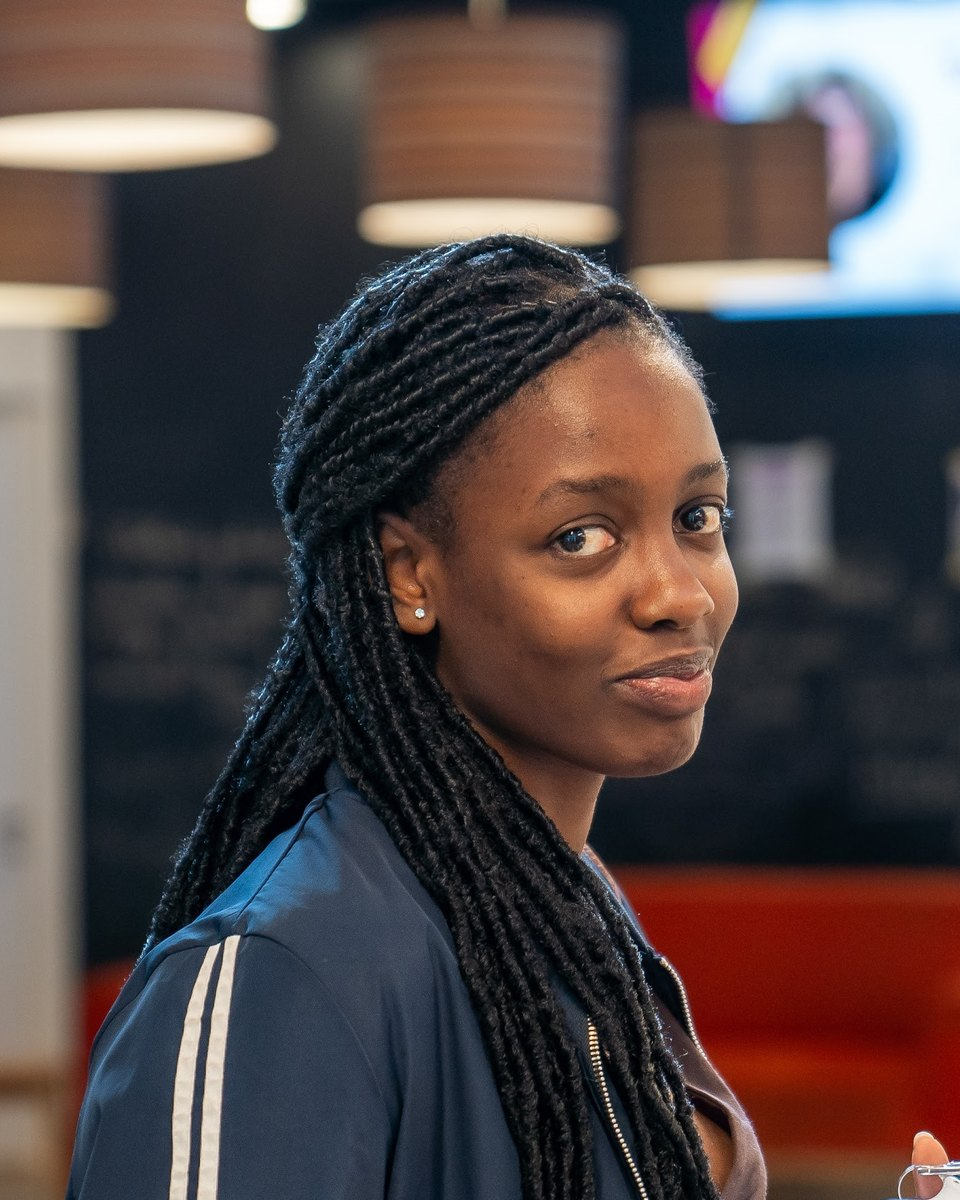
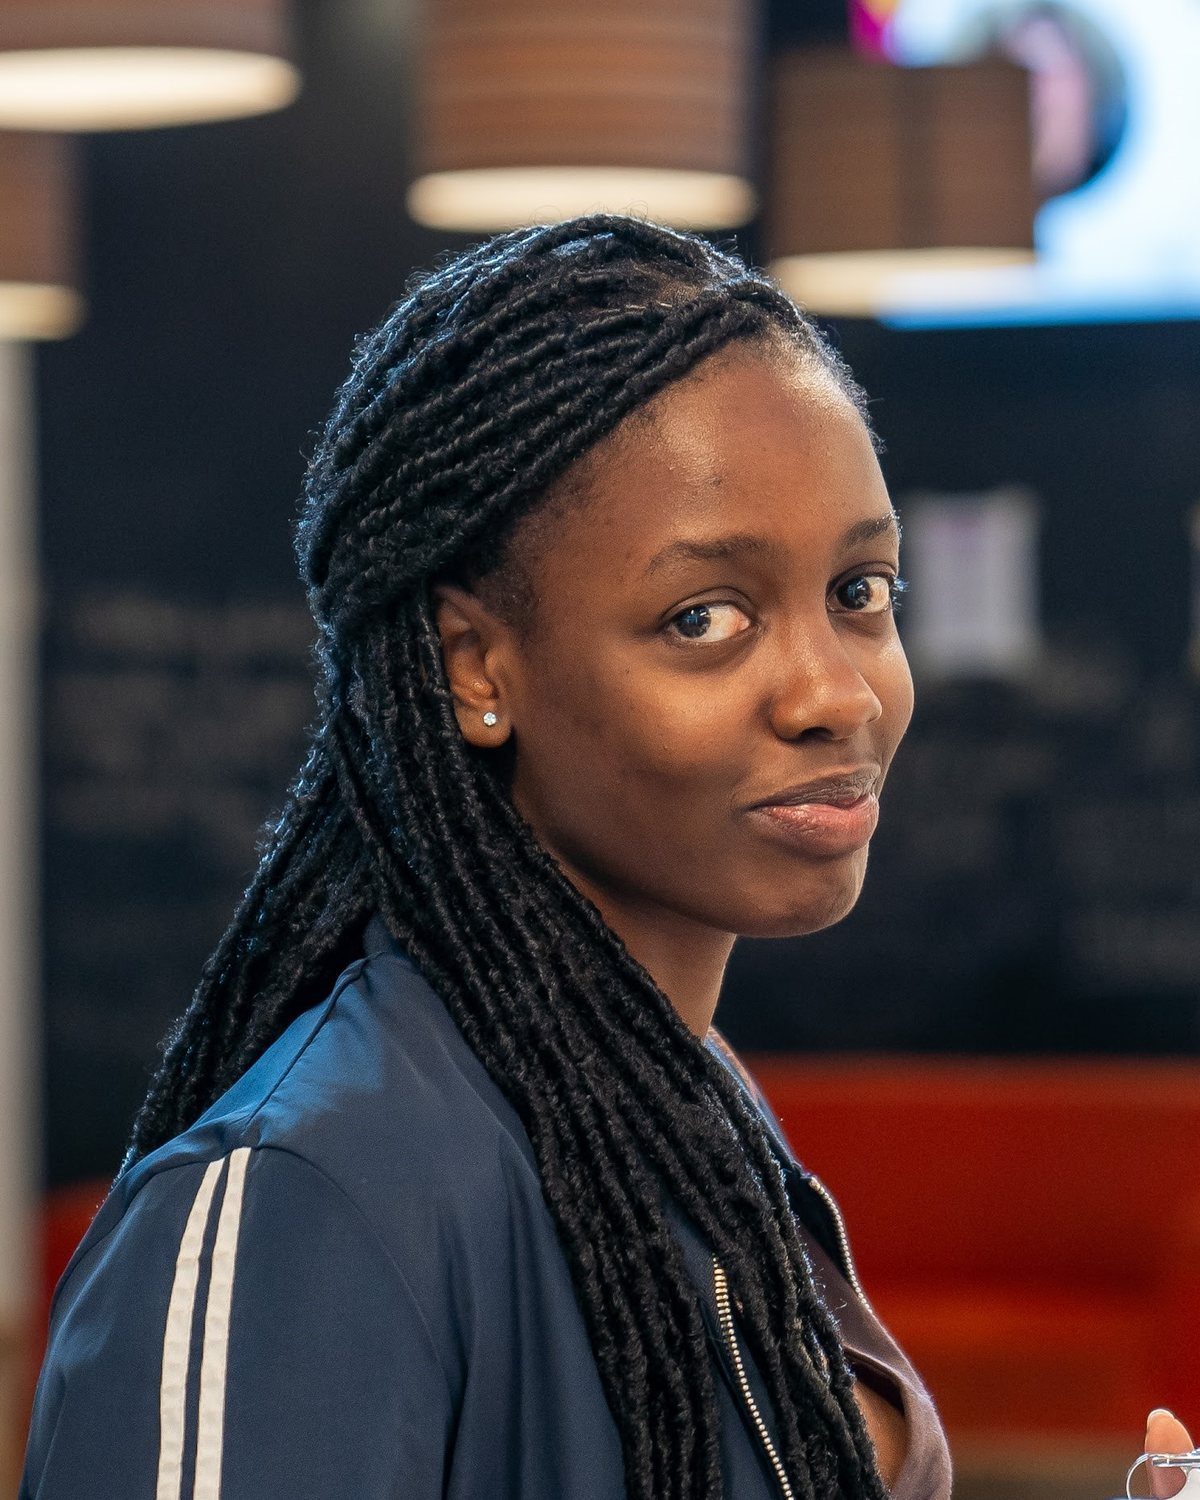
Redesign the hero as a portrait cover
The portrait moves from About into the introduction, joined to a violet cover
panel that carries the name, title, headline and calls to action. Evidence
becomes a full-width strip, laid out two by two on small screens.

diff --git a/components/home/hero.tsx b/components/home/hero.tsx
@@ -1,29 +1,65 @@
+import Image from "next/image";
+import portrait from "@/assets/jamillah.jpg";
 import { profile, proof } from "@/content/profile";
 import { ArrowDown, ArrowRight, ArrowUpRight } from "@/components/icons";
 
+const cellLayout = [
+  "border-b border-r pr-4 sm:pr-6 lg:border-b-0",
+  "border-b pl-4 sm:pl-6 lg:border-b-0 lg:border-r lg:px-6",
+  "border-r pr-4 sm:pr-6 lg:px-6",
+  "pl-4 sm:pl-6",
+];
+
 export function Hero() {
+  const [role, focus] = profile.title.split(" | ");
+
   return (
-    <section id="home" aria-labelledby="home-title" className="shell pb-20 pt-10 sm:pt-16 lg:pb-28 lg:pt-20">
-      <p className="eyebrow flex items-center gap-3">
-        <span aria-hidden="true" className="inline-block size-1.5 rounded-full bg-signal" />
-        {profile.title}
-      </p>
+    <section id="home" aria-labelledby="home-title" className="shell pb-6 pt-4 sm:pb-16 sm:pt-6 lg:pb-20">
+      <div className="grid overflow-hidden rounded-[4px] md:min-h-[min(82vh,48rem)] md:grid-cols-12">
+        <figure className="relative aspect-square md:order-2 md:col-span-5 md:aspect-auto">
+          <Image
+            src={portrait}
+            alt="Portrait of Jamillah Ssozi"
+            priority
+            placeholder="blur"
+            fill
+            sizes="(min-width: 768px) 42vw, 100vw"
+            className="object-cover object-[50%_28%]"
+          />
+          <figcaption className="absolute bottom-4 left-4 rounded-full bg-paper/90 px-3 py-1.5 font-mono text-[0.6875rem] text-ink backdrop-blur-sm">
+            {profile.location}
+          </figcaption>
+        </figure>
 
-      <h1
-        id="home-title"
-        className="mt-8 font-serif text-display tracking-[-0.02em] text-balance sm:mt-10"
-      >
-        {profile.headline.lead} <br className="hidden md:block" />
-        <em className="text-accent-display">{profile.headline.accent}</em>
-      </h1>
+        <div className="night flex flex-col bg-paper px-6 pb-8 pt-7 sm:px-10 sm:pb-10 sm:pt-9 md:order-1 md:col-span-7 lg:px-14 lg:pb-14 lg:pt-12">
+          <div>
+            <p className="font-serif text-3xl leading-none tracking-tight text-ink sm:text-4xl">{profile.name}</p>
+            <p className="eyebrow mt-3 flex items-start gap-3">
+              <span aria-hidden="true" className="mt-[0.4em] inline-block size-1.5 shrink-0 rounded-full bg-accent" />
+              <span>
+                <span className="block lg:inline">{role}</span>
+                <span aria-hidden="true" className="hidden lg:inline"> | </span>
+                <span className="sr-only lg:hidden">, </span>
+                <span className="block lg:inline">{focus}</span>
+              </span>
+            </p>
+          </div>
 
-      <div className="mt-12 grid gap-14 lg:mt-20 lg:grid-cols-12 lg:gap-12">
-        <div className="lg:col-span-5">
-          <p className="max-w-xl text-lede text-ink-soft">{profile.intro}</p>
+          <h1
+            id="home-title"
+            className="mt-12 font-serif text-[clamp(2.75rem,1rem+5vw,5.75rem)] leading-[0.96] tracking-[-0.02em] text-balance text-ink md:mt-auto md:pt-16"
+          >
+            {profile.headline.lead} <em className="text-accent">{profile.headline.accent}</em>
+          </h1>
+
+          <p className="mt-8 max-w-xl text-lede text-ink-soft">
+            <span className="text-ink">I&apos;m Jamillah.</span> {profile.intro}
+          </p>
+
           <div className="mt-8 flex flex-wrap gap-3">
             <a
               href="#projects"
-              className="group inline-flex h-12 items-center gap-2 rounded-full bg-signal px-6 text-sm font-medium text-on-signal transition-colors hover:bg-ink hover:text-paper"
+              className="group inline-flex h-12 items-center gap-2 rounded-full bg-accent px-6 text-sm font-medium text-on-accent transition-colors hover:bg-ink hover:text-paper"
             >
               View projects
               <ArrowDown className="transition-transform duration-300 group-hover:translate-y-0.5" />
@@ -37,30 +73,26 @@ export function Hero() {
             </a>
           </div>
         </div>
+      </div>
 
-        <div className="lg:col-span-6 lg:col-start-7">
-          <h2 className="eyebrow mb-4 flex justify-between">
-            <span>Evidence</span>
-            <span className="hidden sm:inline">From the work, not a summary of it</span>
-          </h2>
-          <ul className="border-t border-line">
-            {proof.map((item) => (
-              <li key={item.value} className="border-b border-line">
-                <a
-                  href={item.href}
-                  className="group grid grid-cols-[6.5rem_1fr_auto] items-baseline gap-4 py-4 sm:grid-cols-[8.5rem_1fr_auto] sm:py-5"
-                >
-                  <span className="font-mono text-xl tracking-tight text-ink sm:text-2xl">{item.value}</span>
-                  <span>
-                    <span className="block text-[0.9375rem] leading-snug text-ink">{item.label}</span>
-                    <span className="mt-1 block font-mono text-xs text-ink-faint">{item.source}</span>
+      <div className="mt-14 lg:mt-20">
+        <h2 className="eyebrow mb-5">Evidence from the work</h2>
+        <ul className="grid grid-cols-2 border-t border-ink lg:grid-cols-4">
+          {proof.map((item, index) => (
+            <li key={item.value} className={`border-line ${cellLayout[index]}`}>
+              <a href={item.href} className="group flex h-full flex-col gap-3 py-5 sm:py-6 lg:py-8">
+                <span className="flex items-start justify-between gap-4">
+                  <span className="font-serif text-[2.5rem] leading-none tracking-tight text-ink sm:text-5xl lg:text-[3.5rem]">
+                    {item.value}
                   </span>
-                  <ArrowUpRight className="text-ink-faint transition-all duration-300 group-hover:-translate-y-0.5 group-hover:translate-x-0.5 group-hover:text-accent" />
-                </a>
-              </li>
-            ))}
-          </ul>
-        </div>
+                  <ArrowUpRight className="mt-1 hidden shrink-0 text-ink-faint transition-all duration-300 group-hover:-translate-y-0.5 group-hover:translate-x-0.5 group-hover:text-accent sm:block" />
+                </span>
+                <span className="max-w-[26ch] text-sm leading-snug text-ink-soft sm:text-[0.9375rem]">{item.label}</span>
+                <span className="mt-auto font-mono text-xs text-ink-faint">{item.source}</span>
+              </a>
+            </li>
+          ))}
+        </ul>
       </div>
     </section>
   );

diff --git a/components/home/about.tsx b/components/home/about.tsx
@@ -1,6 +1,4 @@
-import Image from "next/image";
-import portrait from "@/assets/jamillah.jpg";
-import { layers, profile } from "@/content/profile";
+import { layers } from "@/content/profile";
 import { Reveal } from "@/components/reveal";
 import { SectionHeading } from "@/components/section-heading";
 
@@ -12,23 +10,7 @@ export function About() {
       </SectionHeading>
 
       <div className="mt-14 grid gap-12 lg:mt-20 lg:grid-cols-12 lg:gap-12">
-        <Reveal className="lg:col-span-3">
-          <figure className="max-w-xs">
-            <Image
-              src={portrait}
-              alt="Jamillah Ssozi"
-              placeholder="blur"
-              sizes="(min-width: 1024px) 20vw, (min-width: 640px) 320px, 70vw"
-              className="aspect-[4/5] w-full rounded-sm object-cover grayscale-[15%]"
-            />
-            <figcaption className="mt-3 flex justify-between font-mono text-xs text-ink-faint">
-              <span>{profile.name}</span>
-              <span>{profile.location}</span>
-            </figcaption>
-          </figure>
-        </Reveal>
-
-        <div className="space-y-6 text-lede text-ink-soft lg:col-span-6">
+        <div className="max-w-2xl space-y-6 text-lede text-ink-soft lg:col-span-7 lg:col-start-4">
           <Reveal>
             <p>
               <span className="text-ink">
@@ -69,7 +51,7 @@ export function About() {
               key={layer.name}
               className="group grid gap-2 border-b border-line py-6 transition-colors hover:bg-paper-raised sm:grid-cols-[3rem_1fr] lg:grid-cols-12 lg:gap-12 lg:py-7"
             >
-              <span className="font-mono text-xs text-lavender transition-colors group-hover:text-accent lg:col-span-1 lg:pt-1.5">
+              <span className="font-mono text-xs text-lavender transition-colors group-hover:text-ink lg:col-span-1 lg:pt-1.5">
                 L{index + 1}
               </span>
               <div className="sm:col-start-2 lg:col-span-11 lg:col-start-2 lg:grid lg:grid-cols-11 lg:gap-12">
